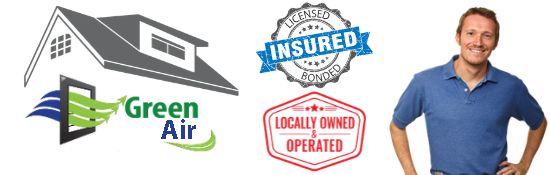
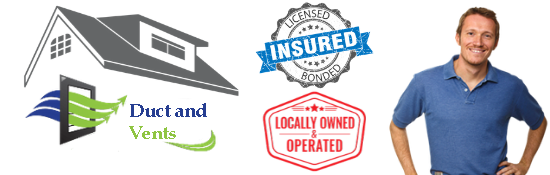
Updated design

Changed region(s): [[0.2164, 0.5429, 0.4018, 0.8]]

diff --git a/src/components/Header.js b/src/components/Header.js
@@ -5,48 +5,54 @@ const Header = () => {
 	const [toggle, setToggle] = useState(false)
 	return (
 		<>
-			<nav className="nav">
+			<nav className='nav'>
 				<div>
-					<button onClick={() => setToggle(!toggle)} className={`toggle ${toggle && 'active'}`}>
-						<i className="fa-solid fa-bars"></i>
-						<i className="fa-solid fa-xmark"></i>
+					<button
+						onClick={() => setToggle(!toggle)}
+						className={`toggle ${toggle && 'active'}`}
+					>
+						<i className='fa-solid fa-bars'></i>
+						<i className='fa-solid fa-xmark'></i>
 					</button>
-					<a className="logo" href="#">
-						Green Air
+					<a className='logo' href='#'>
+						Duct and Vents
 					</a>
 				</div>
-				<ul className="nav-list">
+				<ul className='nav-list'>
 					{/* <li className="nav-item">
 						<a>
 							<i className="fa-solid fa-clipboard"></i> Get Quote
 						</a>
 					</li> */}
-					<li className="nav-item phone">
-						<a href="tel:12402450909">
-							<i className="fa-solid fa-phone"></i> Call Now
+					<li className='nav-item phone'>
+						<a href='tel:12402410401'>
+							<i className='fa-solid fa-phone'></i> Call Now
 						</a>
 					</li>
 				</ul>
 			</nav>
-            <div className={`sidebar ${toggle && 'active'}`}>
-                <ul className='sidebar-menu'>
-                    <li className='sidebar-item'>
-                        <a onClick={()=>setToggle(false)} href="#updates" className='sidebar-link'>Our Services</a>
-                    </li>
-                    {/* <li className='sidebar-item'>
-                        <a href="" className='sidebar-link'>Testimonials</a>
-                    </li> */}
-                    {/* <li className='sidebar-item'>
-                        <a href="" className='sidebar-link'>About Us</a>
-                    </li> */}
-                    {/* <li className='sidebar-item'>
-                        <a href="" className='sidebar-link'>Gallery</a>
-                    </li> */}
-                    <li className='sidebar-item'>
-                        <a onClick={()=>setToggle(false)} href="#contact" className='sidebar-link'>Contact</a>
-                    </li>
-                </ul>
-            </div>
+			<div className={`sidebar ${toggle && 'active'}`}>
+				<ul className='sidebar-menu'>
+					<li className='sidebar-item'>
+						<a
+							onClick={() => setToggle(false)}
+							href='#updates'
+							className='sidebar-link'
+						>
+							Our Services
+						</a>
+					</li>
+					<li className='sidebar-item'>
+						<a
+							onClick={() => setToggle(false)}
+							href='#contact'
+							className='sidebar-link'
+						>
+							Contact
+						</a>
+					</li>
+				</ul>
+			</div>
 		</>
 	)
 }

diff --git a/src/App.js b/src/App.js
@@ -10,43 +10,40 @@ function App() {
 		<div>
 			<Header></Header>
 			<Container>
-				<div className="main-content">
-					
-					<div className="center-content">
-						
-					</div>
+				<div className='main-content'>
+					<div className='center-content'></div>
 					{/* <button className="main-btn">Get Quote</button> */}
 				</div>
-				<img className="head-img" src={bg} alt="" />
+				<img className='head-img' src={bg} alt='' />
 				<Updates />
-        <Testimonials />
-				<section className="contact-us" id='contact'>
-					<div className="line"></div>
+				<Testimonials />
+				<section className='contact-us' id='contact'>
+					<div className='line'></div>
 					<h2>Contact Us</h2>
-          <div className="contact-cards">
-            <div>
-              <h4>Contact</h4>
-              <a href="tel:12402450909" className='main-btn'>Call Now</a>
-              <p className='tel'>(240) 245 09 09</p>
-            </div>
-            <div>
-              <h4>Business Hours</h4>
-              <ul className="table">
-                <li>Mon:	8:00 AM – 6:00 PM</li>
-                <li>Tue:	8:00 AM – 6:00 PM</li>
-                <li>Wed:	8:00 AM – 6:00 PM</li>
-                <li>Thu:	8:00 AM – 6:00 PM</li>
-                <li>Fri:	8:00 AM – 6:00 PM</li>
-                <li>Sat:	8:00 AM – 6:00 PM</li>
-                <li>Sun:	8:00 AM – 6:00 PM</li>
-              </ul>
-            </div>
-          </div>
+					<div className='contact-cards'>
+						<div>
+							<h4>Contact</h4>
+							<a href='tel:12402410401' className='main-btn'>
+								Call Now
+							</a>
+							<p className='tel'>(240) 241 04 01</p>
+						</div>
+						<div>
+							<h4>Business Hours</h4>
+							<ul className='table'>
+								<li>Mon: 8:00 AM – 6:00 PM</li>
+								<li>Tue: 8:00 AM – 6:00 PM</li>
+								<li>Wed: 8:00 AM – 6:00 PM</li>
+								<li>Thu: 8:00 AM – 6:00 PM</li>
+								<li>Fri: 8:00 AM – 6:00 PM</li>
+								<li>Sat: 8:00 AM – 6:00 PM</li>
+								<li>Sun: 8:00 AM – 6:00 PM</li>
+							</ul>
+						</div>
+					</div>
 				</section>
 			</Container>
-      <footer>
-        Green Services &copy; 2015
-      </footer>
+			<footer>Green Services &copy; 2015</footer>
 		</div>
 	)
 }

diff --git a/public/index.html b/public/index.html
@@ -3,12 +3,24 @@
 	<head>
 		<meta charset="utf-8" />
 		<meta name="viewport" content="width=device-width,initial-scale=1" />
-		<meta name="keywords" content="air duct cleaning, air duct, air duct cleaning near me, air duct cleaning cost, air duct cleaning tools, air duct cleaning services, 	air duct cleaner, air duct cleaning equipment, air duct cleaning las vegas, air duct cleaners, air duct and dryer vent cleaning, 	air duct and vent cleaning" />
-		<meta name="google-site-verification" content="rITSlqxQ2zj6oT6qeh_3__lh-SLSKBY36G8RPUvg0JA" />
+		<meta
+			name="keywords"
+			content="air duct cleaning, air duct, air duct cleaning near me, air duct cleaning cost, air duct cleaning tools, air duct cleaning services, 	air duct cleaner, air duct cleaning equipment, air duct cleaning las vegas, air duct cleaners, air duct and dryer vent cleaning, 	air duct and vent cleaning"
+		/>
+		<meta
+			name="google-site-verification"
+			content="rITSlqxQ2zj6oT6qeh_3__lh-SLSKBY36G8RPUvg0JA"
+		/>
 		<link rel="shortcut icon" href="/a.png" />
-		<meta name="description" content="Green Air" />
-		<link rel="stylesheet" href="https://cdnjs.cloudflare.com/ajax/libs/font-awesome/6.1.1/css/all.min.css" integrity="sha512-KfkfwYDsLkIlwQp6LFnl8zNdLGxu9YAA1QvwINks4PhcElQSvqcyVLLD9aMhXd13uQjoXtEKNosOWaZqXgel0g==" crossorigin="anonymous" referrerpolicy="no-referrer" />
-		<title>Green Air</title>
+		<meta name="description" content="Duct and Vents" />
+		<link
+			rel="stylesheet"
+			href="https://cdnjs.cloudflare.com/ajax/libs/font-awesome/6.1.1/css/all.min.css"
+			integrity="sha512-KfkfwYDsLkIlwQp6LFnl8zNdLGxu9YAA1QvwINks4PhcElQSvqcyVLLD9aMhXd13uQjoXtEKNosOWaZqXgel0g=="
+			crossorigin="anonymous"
+			referrerpolicy="no-referrer"
+		/>
+		<title>Duct and Vents</title>
 	</head>
 	<body>
 		<div id="javokhir"></div>

diff --git a/src/index.css b/src/index.css
@@ -9,13 +9,13 @@
 }
 
 :root {
-	--maincolor: #88b06a;
+	--maincolor: #2c3e50;
 }
 
 body {
 	font-family: 'Roboto', sans-serif;
 	width: 100%;
-	background: #f8fff3;
+	background: #f4f9ff;
 }
 
 .container {
@@ -50,12 +50,12 @@ body {
 	margin-right: 20px;
 }
 .toggle i {
-	color: #88b06a;
+	color: #2c3e50;
 	font-size: 23px;
 }
 
 .nav .logo {
-	color: #88b06a;
+	color: #2c3e50;
 	text-decoration: none;
 	font-size: 20px;
 }
@@ -76,7 +76,7 @@ body {
 	display: flex;
 	list-style: none;
 	gap: 30px;
-	color: #88b06a;
+	color: #2c3e50;
 	font-size: 18px;
 }
 
@@ -84,7 +84,7 @@ body {
 	display: flex;
 	gap: 10px;
 	cursor: pointer;
-	color: #88b06a;
+	color: #2c3e50;
 	text-decoration: none;
 }
 
@@ -124,7 +124,7 @@ body {
 }
 
 .sidebar-item a {
-	color: #88b06a;
+	color: #2c3e50;
 	text-decoration: none;
 	font-size: 20px;
 }
@@ -134,7 +134,7 @@ body {
 }
 
 .main-title {
-	color: #88b06a;
+	color: #2c3e50;
 	font-size: 56px;
 	text-align: center;
 	font-weight: 400;
@@ -159,7 +159,7 @@ body {
 .main-btn {
 	padding: 18px 54px;
 	text-transform: uppercase;
-	background-color: #88b06a;
+	background-color: #2c3e50;
 	color: #fff;
 	font-size: 16px;
 	border: none;
@@ -215,7 +215,7 @@ body {
 }
 
 .updates_card-date {
-	color: #88b06a;
+	color: #2c3e50;
 	font-size: 16px;
 	margin-bottom: 20px;
 	display: block;
@@ -268,7 +268,7 @@ body {
 
 footer {
 	height: 70px;
-	background: #88b06a;
+	background: #2c3e50;
 	color: #fff;
 	display: flex;
 	align-items: center;

diff --git a/src/components/Updates.js b/src/components/Updates.js
@@ -22,7 +22,7 @@ const Updates = () => {
 				</div>
 				<div className="updates_card">
 					<img src="https://lh3.googleusercontent.com/p/AF1QipMiK7K6OmpWTtQpW_86_lqYhRbn866Yd_41lmuR=s1280-p-no-v1" alt="" />
-					<h4>$360 Air Duct Cleaning</h4>
+					<h4>$310 Air Duct Cleaning</h4>
 					<ul className="updates_card-content">
 						<li>Cleaning all supply vents</li>
 						<li>Cleaning Cold Air Return</li>
